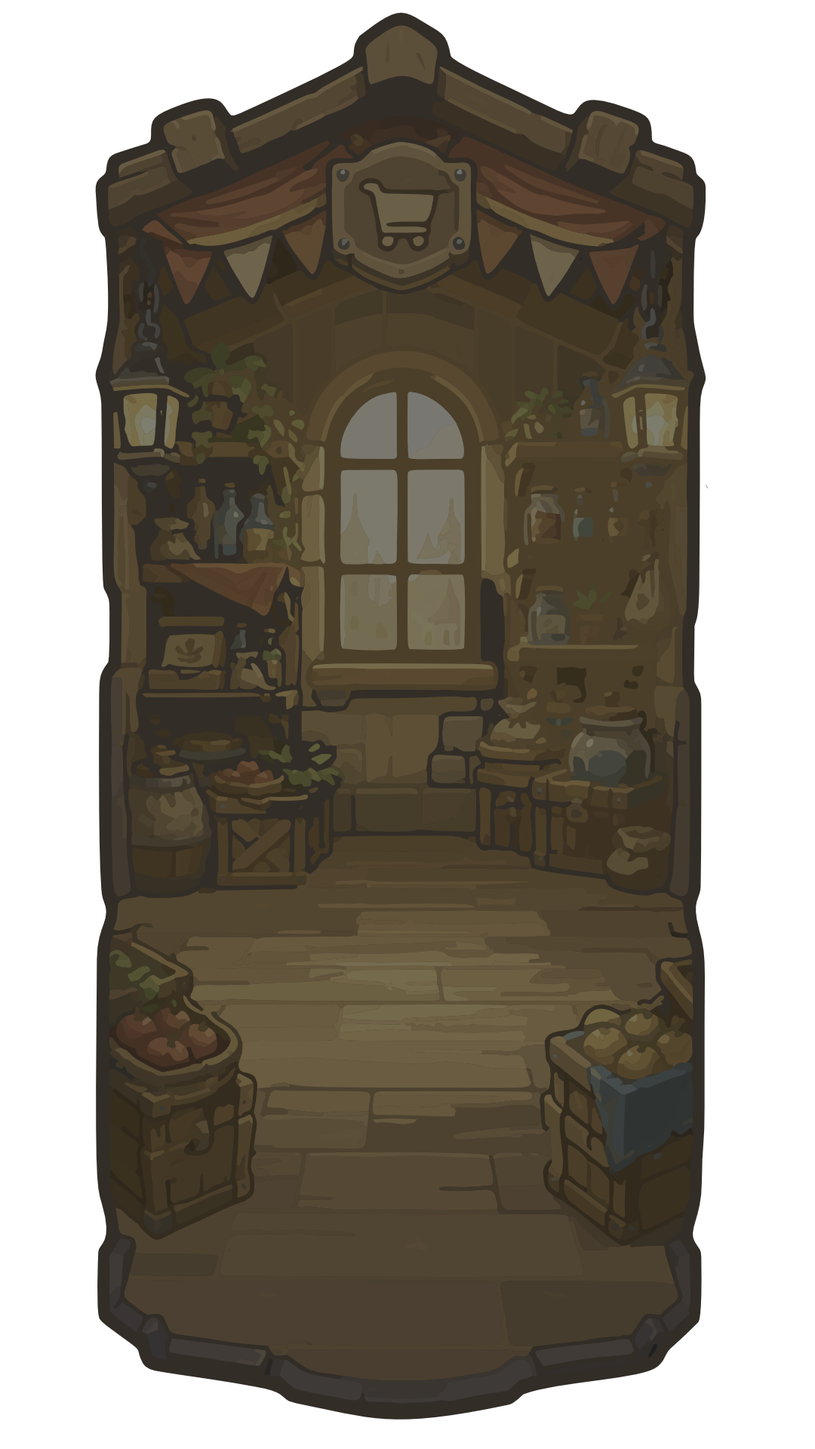
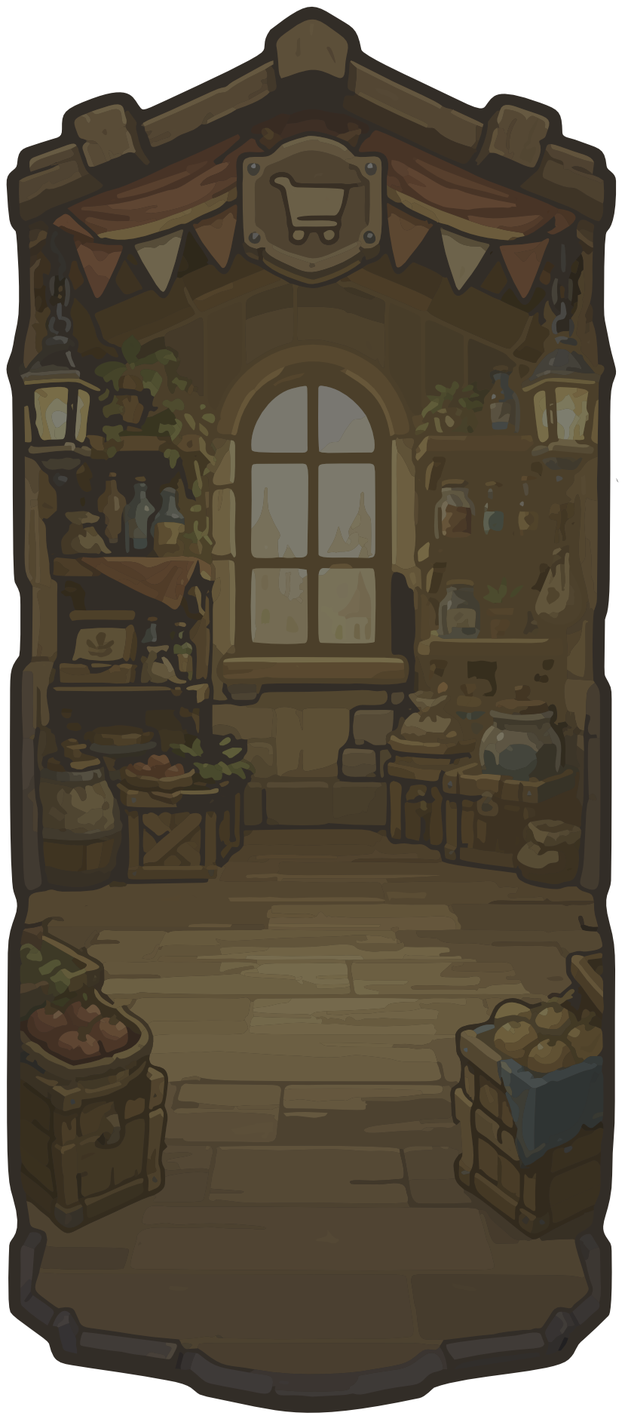
Rynek: napraw czarne pasy w tle sceny + ręczny edytor sceny na urządzeniu (#149)
User ze zrzutem po §32: "zobacz nadal [źle], musisz poprawić" — TLOSKLEPIKARZ.png (tło całej
sceny Rynku) miało ~12% przezroczystego marginesu po każdej stronie, nigdy nie przycięte jak
RYNEK_TOP/RYNEK_BOTTOM; resizeMode="cover" dopasowywał się do wysokości sceny i przycinał
tylko ~15px z brzegu, zostawiając ~75px czystego czarnego marginesu po obu stronach na
realnym ekranie. Zweryfikowane lokalnie (bbox kanału alfa + symulacja Pillow całego łańcucha
renderu przed/po, nie zgadywanie) i naprawione: obrazek przycięty do bbox alfa (+8px), zero
zmian w kodzie.

Dodatkowo: user zaproponował, żeby zamiast kolejnych rund "zrzut ekranu → zgadywanie
współrzędnych → PR", dać mu ręczny edytor na telefonie. Nowa ikona suwaków w headerze Sklepu
otwiera panel z 7 wartościami (skala grafik, przesunięcie X sceny, odstępy tablica↔kotek↔lada,
rozmiar/przesunięcie sklepikarza, pionowy punkt zaczepienia tła), persystowanych w
AsyncStorage, z przyciskiem "Eksportuj" pokazującym JSON do wklejenia z powrotem w czacie.

Osobno wysłany userowi (poza repo) statyczny .svg sklepikarza do samodzielnej edycji wąsów/
czapki w zewnętrznym edytorze — CatArt.tsx to programistyczny komponent, nie gotowy plik, więc
to wierny zrzut spoczynkowej pozy w tych samych współrzędnych.

tsc/jest zielone (67 suit/837 testów).

Claude-Session: https://claude.ai/code/session_01JBj2QCJj1UFiScnF39vpT2

diff --git a/app/pet-shop.tsx b/app/pet-shop.tsx
@@ -1,9 +1,10 @@
-import { useMemo, useState } from 'react';
+import { useEffect, useMemo, useState } from 'react';
 import { View, Text, StyleSheet, ScrollView, TouchableOpacity, Image, Modal, Dimensions } from 'react-native';
+import AsyncStorage from '@react-native-async-storage/async-storage';
 import { LinearGradient } from 'expo-linear-gradient';
 import { SafeAreaView } from 'react-native-safe-area-context';
 import { router } from 'expo-router';
-import { ChevronLeft, Coins, Check, Snowflake, Gift, X } from 'lucide-react-native';
+import { ChevronLeft, Coins, Check, Snowflake, Gift, X, SlidersHorizontal } from 'lucide-react-native';
 
 import PressableScale from '@/components/ui/PressableScale';
 import ConfirmDialog from '@/components/ui/ConfirmDialog';
@@ -39,6 +40,37 @@ const pctStyle = (r: PctRect) => ({
 // aspectRatio, żeby wyeliminować możliwość takiego rozjazdu).
 const SCREEN_W = Dimensions.get('window').width;
 const ART_CONTENT_W = SCREEN_W - spacing[4] * 2;   // dokładnie tyle, ile zostaje po paddingHorizontal `s.scroll`
+
+// Ręczny "edytor sceny" (2026-09-06, user po kolejnym zrzucie "nadal [źle]": zamiast żebym
+// dalej zgadywał współrzędne na ślepo bez dostępu do urządzenia, user dostaje suwaki do
+// samodzielnego dostrojenia skali/przesunięcia/odstępów NA ŻYWO na telefonie, a potem
+// przycisk "Eksportuj" wypluwa dokładne liczby do wklejenia w czacie — ja je już tylko
+// wpisuję na sztywno jako nowe wartości domyślne, zero kolejnych rund zgadywania). Wartości
+// persystują w AsyncStorage (żeby dostrajanie przetrwało między sesjami), niezależne od
+// samego wyglądu dla zwykłego użytku — edytor jest schowany za ikoną w headerze, nie
+// przeszkadza w normalnym korzystaniu ze sklepu.
+interface ArtAdjust {
+  scale: number;       // mnożnik szerokości tablicy/lady (ART_CONTENT_W * scale)
+  offsetX: number;     // przesunięcie X całej sceny (tło+tablica+kotek+lada razem)
+  gapTop: number;      // odstęp tablica → kotek
+  gapBottom: number;   // odstęp kotek → lada
+  catSize: number;     // rozmiar sklepikarza
+  catOffsetX: number;  // przesunięcie X samego kotka
+  bgFocusY: number;    // 0=pokaż górę tła (dach), 1=pokaż dół (podłogę), 0.5=środek
+}
+const DEFAULT_ADJUST: ArtAdjust = {
+  scale: 1, offsetX: 0, gapTop: spacing[3], gapBottom: spacing[3], catSize: 140, catOffsetX: 0, bgFocusY: 0.5,
+};
+const ADJUST_KEY = 'rynek_art_adjust_v1';
+const ADJUST_FIELDS: { key: keyof ArtAdjust; label: string; step: number; min: number; max: number; fmt: (v: number) => string }[] = [
+  { key: 'scale', label: 'Skala grafik (tablica/lada)', step: 0.02, min: 0.6, max: 1.3, fmt: v => `${Math.round(v * 100)}%` },
+  { key: 'offsetX', label: 'Przesunięcie X całej sceny', step: 2, min: -80, max: 80, fmt: v => `${v}px` },
+  { key: 'gapTop', label: 'Odstęp: tablica → kotek', step: 2, min: 0, max: 60, fmt: v => `${v}px` },
+  { key: 'gapBottom', label: 'Odstęp: kotek → lada', step: 2, min: 0, max: 60, fmt: v => `${v}px` },
+  { key: 'catSize', label: 'Rozmiar sklepikarza', step: 4, min: 60, max: 260, fmt: v => `${v}px` },
+  { key: 'catOffsetX', label: 'Przesunięcie X sklepikarza', step: 4, min: -140, max: 140, fmt: v => `${v}px` },
+  { key: 'bgFocusY', label: 'Tło: która część widoczna (dach ↔ podłoga)', step: 0.02, min: 0, max: 1, fmt: v => `${Math.round(v * 100)}%` },
+];
 
 const FREEZE_COST = 50;   // monet za jedno zamrożenie serii
 
@@ -102,6 +134,48 @@ export default function PetShop() {
   // kupuje. Tylko Sklep dnia — jedyna zakładka sprzedająca KONKRETNE itemy ekwipunku o znanym
   // staty/rarity; skrzynki (losowe) tego nie mają.
   const [gearPreview, setGearPreview] = useState<DailyShopSlot | null>(null);
+
+  // Edytor sceny Rynku — patrz komentarz przy `ArtAdjust` u góry pliku. Ładowany raz z
+  // AsyncStorage; `adjustLoaded` chroni przed nadpisaniem zapisanych wartości domyślnymi
+  // zanim odczyt zdąży wrócić (ten sam wzorzec co reszta store'ów w apce).
+  const [adjust, setAdjust] = useState<ArtAdjust>(DEFAULT_ADJUST);
+  const [adjustLoaded, setAdjustLoaded] = useState(false);
+  const [editScene, setEditScene] = useState(false);
+  const [showExport, setShowExport] = useState(false);
+  useEffect(() => {
+    AsyncStorage.getItem(ADJUST_KEY).then(raw => {
+      if (raw) { try { setAdjust({ ...DEFAULT_ADJUST, ...JSON.parse(raw) }); } catch {} }
+      setAdjustLoaded(true);
+    }).catch(() => setAdjustLoaded(true));
+  }, []);
+  useEffect(() => {
+    if (!adjustLoaded) return;
+    AsyncStorage.setItem(ADJUST_KEY, JSON.stringify(adjust)).catch(() => {});
+  }, [adjust, adjustLoaded]);
+  const stepAdjust = (key: keyof ArtAdjust, dir: 1 | -1) => {
+    haptic.tap();
+    const f = ADJUST_FIELDS.find(f => f.key === key)!;
+    setAdjust(a => {
+      const raw = Math.min(f.max, Math.max(f.min, a[key] + dir * f.step));
+      return { ...a, [key]: Math.round(raw * 100) / 100 };
+    });
+  };
+  const resetAdjust = () => { haptic.tap(); setAdjust(DEFAULT_ADJUST); setShowExport(false); };
+
+  // Rozmiary sceny wyliczone z aktualnych `adjust` (zamiast sztywnego ART_CONTENT_W) — patrz
+  // komentarz przy `RYNEK_BG` w rynekArt.ts. Tło pozycjonowane RĘCZNIE (własna matematyka
+  // "cover" z pionowym punktem zaczepienia `bgFocusY`), bo zwykły `resizeMode="cover"` zawsze
+  // centruje — nie da się nim wybrać "pokaż więcej dachu" / "pokaż więcej podłogi".
+  const bgSrc = useMemo(() => Image.resolveAssetSource(RYNEK_BG), []);
+  const artW = ART_CONTENT_W * adjust.scale;
+  const sceneTopH = artW / RYNEK_TOP_ASPECT;
+  const sceneBotH = artW / RYNEK_BOTTOM_ASPECT;
+  const sceneH = sceneTopH + adjust.gapTop + adjust.catSize + adjust.gapBottom + sceneBotH;
+  const bgScale = Math.max(ART_CONTENT_W / bgSrc.width, sceneH / bgSrc.height);
+  const bgRenderW = bgSrc.width * bgScale;
+  const bgRenderH = bgSrc.height * bgScale;
+  const bgLeft = -(bgRenderW - ART_CONTENT_W) / 2;
+  const bgTop = -(bgRenderH - sceneH) * adjust.bgFocusY;
 
   const [pendingBuy, setPendingBuy] = useState<{ name: string; cost: number; onYes: () => void; verb: string; extra?: string } | null>(null);
   const confirmBuy = (name: string, cost: number, onYes: () => void, verb = 'Kup', extra?: string) => {
@@ -189,6 +263,10 @@ export default function PetShop() {
         <TouchableOpacity onPress={() => router.back()} hitSlop={10}><ChevronLeft size={24} color={c.text.primary} /></TouchableOpacity>
         <Text style={s.title}>Sklep</Text>
         <View style={s.coinPill}><Coins size={13} color="#FBBF24" /><Text style={s.coinTxt}>{coins}</Text></View>
+        {/* Edytor sceny (2026-09-06) — ukryty za ikoną, nie przeszkadza w normalnym sklepie. */}
+        <TouchableOpacity onPress={() => { haptic.tap(); setEditScene(true); }} hitSlop={10} style={{ marginLeft: spacing[2] }}>
+          <SlidersHorizontal size={18} color={c.text.muted} />
+        </TouchableOpacity>
       </View>
 
       <ScrollView contentContainerStyle={s.scroll} showsVerticalScrollIndicator={false}>
@@ -228,8 +306,8 @@ export default function PetShop() {
             od pozycji scrolla. Freeze-card (nad scenerią) i `hint` (pod nią) świadomie
             ZOSTAJĄ POZA tym wrapperem — nigdy nie miały wymogu piksel-w-piksel wyrównania
             z konkretnym miejscem na obrazku, to zwykłe karty UI, nie część "obrazu". ── */}
-        <View style={s.scene}>
-          <Image source={RYNEK_BG} style={StyleSheet.absoluteFillObject} resizeMode="cover" />
+        <View style={[s.scene, { height: sceneH, transform: [{ translateX: adjust.offsetX }] }]}>
+          <Image source={RYNEK_BG} style={{ position: 'absolute', width: bgRenderW, height: bgRenderH, left: bgLeft, top: bgTop }} resizeMode="stretch" />
 
         {/* Skrzynka dnia (darmowa) + 3 skrzynki (gacha) na "tablicy" LADAGORA, 4 okna. Etykieta
             "Skrzynki" + instruktażowy podpis USUNIĘTE (2026-09-06, user: "wypierdol te
@@ -238,7 +316,7 @@ export default function PetShop() {
             (`odds` w `onBuyBox`), więc informacja nie zniknęła, tylko przestała siedzieć na
             stałe na ekranie. */}
         <View style={{ gap: spacing[2] }}>
-          <View style={[s.artPiece, { width: ART_CONTENT_W, height: ART_CONTENT_W / RYNEK_TOP_ASPECT, alignSelf: 'center' }]}>
+          <View style={[s.artPiece, { width: artW, height: sceneTopH, alignSelf: 'center' }]}>
             <Image source={RYNEK_TOP} style={StyleSheet.absoluteFillObject} resizeMode="contain" />
             <PressableScale onPress={onDailyBox} style={[s.artSlot, pctStyle(RYNEK_TOP_SLOTS[0])]}>
               <View style={s.artSlotBg} />
@@ -266,8 +344,10 @@ export default function PetShop() {
             (`TLOSKLEPIKARZ` przebija przez tę lukę) — user: "co to jest za sklepik, gdzie
             sklepikarz". Bez `onPress` — `shopkeeper` i tak wygasza tap/cuddle-reakcje
             wewnątrz komponentu, więc obsługa dotyku byłaby martwym kodem. */}
-        <View style={{ alignItems: 'center' }}>
-          <CatArt size={140} palette={SHOPKEEPER_PALETTE} shopkeeper />
+        <View style={{ alignItems: 'center', marginTop: adjust.gapTop, marginBottom: adjust.gapBottom }}>
+          <View style={{ transform: [{ translateX: adjust.catOffsetX }] }}>
+            <CatArt size={adjust.catSize} palette={SHOPKEEPER_PALETTE} shopkeeper />
+          </View>
         </View>
 
         {/* ── Sklep dnia — 4 konkretne itemy ekwipunku na dziś, teraz jako górny rząd okien
@@ -278,7 +358,7 @@ export default function PetShop() {
             ZOSTAJE (to żywa, funkcjonalna informacja, nie instrukcja), ale jako mała
             pigułka nad ladą zamiast pełnego zdania. ── */}
         <View style={{ gap: spacing[2] }}>
-          <View style={[s.artPiece, { width: ART_CONTENT_W, height: ART_CONTENT_W / RYNEK_BOTTOM_ASPECT, alignSelf: 'center' }]}>
+          <View style={[s.artPiece, { width: artW, height: sceneBotH, alignSelf: 'center' }]}>
             <Image source={RYNEK_BOTTOM} style={StyleSheet.absoluteFillObject} resizeMode="contain" />
             <View style={s.refreshRow} pointerEvents="none">
               <View style={s.refreshPill}><Text style={s.refreshPillTxt}>Nowy zestaw za {fmtShopRefresh()}</Text></View>
@@ -352,6 +432,43 @@ export default function PetShop() {
         onBuy={(item, rarity, cost, value) => { setGearPreview(null); onBuyDaily(item.id, rarity, cost, value, item.name); }}
         onClose={() => setGearPreview(null)}
       />
+      <Modal visible={editScene} transparent animationType="slide" onRequestClose={() => setEditScene(false)}>
+        <View style={s.previewOverlay}>
+          <View style={[s.previewSheet, { maxHeight: '88%' }]}>
+            <View style={s.sheetHead}>
+              <Text style={s.title2}>Edytor sceny Rynku</Text>
+              <TouchableOpacity onPress={() => setEditScene(false)} hitSlop={10}><X size={20} color={c.text.primary} /></TouchableOpacity>
+            </View>
+            <Text style={s.adjustIntro}>Dostrój suwakami na żywo, potem "Eksportuj" i wyślij mi te liczby w czacie — wpiszę je na sztywno.</Text>
+            <ScrollView style={{ maxHeight: 380 }} showsVerticalScrollIndicator={false}>
+              {ADJUST_FIELDS.map(f => (
+                <View key={f.key} style={s.adjustRow}>
+                  <Text style={s.adjustLabel}>{f.label}</Text>
+                  <View style={s.adjustCtrl}>
+                    <TouchableOpacity onPress={() => stepAdjust(f.key, -1)} style={s.adjustBtn} hitSlop={6}><Text style={s.adjustBtnTxt}>−</Text></TouchableOpacity>
+                    <Text style={s.adjustVal}>{f.fmt(adjust[f.key])}</Text>
+                    <TouchableOpacity onPress={() => stepAdjust(f.key, 1)} style={s.adjustBtn} hitSlop={6}><Text style={s.adjustBtnTxt}>+</Text></TouchableOpacity>
+                  </View>
+                </View>
+              ))}
+            </ScrollView>
+            <View style={{ flexDirection: 'row', gap: spacing[2], marginTop: spacing[2] }}>
+              <TouchableOpacity onPress={resetAdjust} style={[s.previewBuyBtn, { flex: 1, backgroundColor: c.bg.secondary }]}>
+                <Text style={[s.previewBuyTxt, { color: c.text.primary }]}>Reset</Text>
+              </TouchableOpacity>
+              <TouchableOpacity onPress={() => { haptic.tap(); setShowExport(v => !v); }} style={[s.previewBuyBtn, { flex: 1 }]}>
+                <Text style={s.previewBuyTxt}>{showExport ? 'Ukryj dane' : 'Eksportuj'}</Text>
+              </TouchableOpacity>
+            </View>
+            {showExport && (
+              <View style={s.exportBox}>
+                <Text style={s.exportHint}>Zaznacz cały tekst poniżej (długi tap → zaznacz wszystko) i wklej mi w czacie:</Text>
+                <Text selectable style={s.exportTxt}>{JSON.stringify(adjust, null, 2)}</Text>
+              </View>
+            )}
+          </View>
+        </View>
+      </Modal>
     </SafeAreaView>
   );
 }
@@ -473,7 +590,10 @@ const makeS = themedStyles((c: any) => StyleSheet.create({
   // rodzica, nie wpływa na jego pomiar. `overflow:'hidden'` na wypadek gdyby `cover` na
   // skrajnie wąskim/szerokim ekranie chciał wystawić poza zaokrąglone rogi (scena i tak nie
   // ma tu rogów, ale to tania asekuracja przed przypadkowym poziomym scrollem).
-  scene: { position: 'relative', overflow: 'hidden', gap: spacing[3] },
+  // `gap` USUNIĘTY (2026-09-06) — odstępy tablica↔kotek↔lada są teraz NIEZALEŻNE
+  // (`adjust.gapTop`/`gapBottom` z edytora sceny), więc siedzą jako `marginTop`/`marginBottom`
+  // wprost na wrapperze kotka, nie jako jeden wspólny `gap` na tym kontenerze.
+  scene: { position: 'relative', overflow: 'hidden' },
 
   // Kafelki na "tablicy"/ladzie Rynku — `s.artPiece` to kontener na PIKSELOWO (nie
   // procentowo) wyliczonych `width`/`height` (patrz `ART_CONTENT_W` u góry pliku — fix
@@ -527,4 +647,16 @@ const makeS = themedStyles((c: any) => StyleSheet.create({
   previewBoughtTxt: { fontSize: 13, fontWeight: '800' },
   previewBuyBtn: { flexDirection: 'row', alignItems: 'center', justifyContent: 'center', gap: 6, backgroundColor: '#FBBF24', borderRadius: radius.lg, paddingVertical: 14 },
   previewBuyTxt: { fontSize: 14, fontWeight: '900', color: '#0B0E1A' },
+
+  // Edytor sceny Rynku (2026-09-06) — patrz `ArtAdjust` u góry pliku.
+  adjustIntro: { fontSize: 12, color: c.text.muted, marginBottom: spacing[2] },
+  adjustRow: { flexDirection: 'row', alignItems: 'center', justifyContent: 'space-between', paddingVertical: spacing[2], borderBottomWidth: 1, borderBottomColor: c.border.default },
+  adjustLabel: { flex: 1, fontSize: 12.5, color: c.text.primary, fontWeight: '600', marginRight: spacing[2] },
+  adjustCtrl: { flexDirection: 'row', alignItems: 'center', gap: spacing[2] },
+  adjustBtn: { width: 30, height: 30, borderRadius: radius.md, borderWidth: 1, borderColor: c.border.default, alignItems: 'center', justifyContent: 'center' },
+  adjustBtnTxt: { fontSize: 17, fontWeight: '800', color: c.text.primary, lineHeight: 20 },
+  adjustVal: { fontSize: 12.5, fontWeight: '800', color: c.text.primary, minWidth: 48, textAlign: 'center' },
+  exportBox: { marginTop: spacing[3], padding: spacing[3], borderRadius: radius.md, backgroundColor: c.bg.secondary, borderWidth: 1, borderColor: c.border.default },
+  exportHint: { fontSize: 11, color: c.text.muted, marginBottom: spacing[1] },
+  exportTxt: { fontSize: 11.5, fontFamily: 'monospace', color: c.text.primary },
 }));

diff --git a/src/utils/rynekArt.ts b/src/utils/rynekArt.ts
@@ -11,8 +11,19 @@
 // Oryginalne kanwy usera miały 1080x1920 z dużym marginesem przezroczystości dookoła
 // właściwej grafiki (ChatGPT wygenerował portretowy obrazek, ale treść zajmowała tylko
 // część wysokości) — `RYNEK_TOP`/`RYNEK_BOTTOM` są PRZYCIĘTE (Pillow, bbox nieprzezroczystych
-// pikseli + 24px marginesu) żeby nie marnować wysokości ekranu na pusty obszar. `RYNEK_BG`
-// zostaje w oryginalnym rozmiarze (pełnoekranowe tło, resizeMode="cover" i tak przycina brzegi).
+// pikseli + 24px marginesu) żeby nie marnować wysokości ekranu na pusty obszar.
+//
+// `RYNEK_BG` (2026-09-06, fix po zgłoszeniu usera "nadal [źle], musisz poprawić" ze zrzutem
+// pokazującym grube czarne pasy po bokach całej sceny) — DAWNIEJ zostawiony w oryginalnym
+// 1080x1920, założenie było że `resizeMode="cover"` "i tak przytnie brzegi". Fałszywe
+// założenie: `TLOSKLEPIKARZ.png` miał ~12% przezroczystego marginesu po KAŻDEJ stronie (bbox
+// alfa: 126-939 z 1080 szer.), a `cover` dopasowuje się do WYSOKOŚCI całej sceny (tablica+
+// kotek+lada), która w tym pionowym obrazku wychodzi węższa niż potrzeba do pokrycia —
+// `cover` przycinał tylko ~15px z każdej strony, zostawiając ~75px czystego marginesu
+// przezroczystości (czyli czarnego tła apki) po OBU stronach na realnym ekranie. Naprawa:
+// `TLOSKLEPIKARZ.png` przycięty do bbox alfa (+8px marginesu) tym samym skryptem co
+// TOP/BOTTOM — teraz `cover` przycina rzeczywistą treść (trochę dachu u góry / podłogi u
+// dołu, bez znaczenia wizualnego), a scena wypełnia całą szerokość bez czarnych pasów.
 //
 // Współrzędne okien (procent szerokości/wysokości WŁASNEGO kontenera obrazka, nie ekranu)
 // zmierzone RAZ skryptem Python na kanale alfa (bbox przezroczystych "dziur" wewnątrz

diff --git a/ARCHITECTURE.md b/ARCHITECTURE.md
@@ -3959,6 +3959,77 @@ razu). Finalnie **369 wpisów** (138 nauka / 109 rozwój / 122 świat).
 urządzeniu**: jak w §30-31 — nowe fakty powinny naturalnie wchodzić do rotacji "Ciekawostki
 dnia" przez kolejne dni.
 
+## 35. Rynek: czarne pasy po bokach sceny — TLOSKLEPIKARZ.png przycięty do bbox alfa — 2026-09-06
+
+User przysłał zrzut ekranu Sklepu z komentarzem "zobacz nadal [źle], musisz poprawić" — po
+naprawie z §32 (grafiki mieściły się już w ekranie, bez wychodzenia poza krawędź), ale scena
+wyglądała na "połamaną": grube czarne pasy ciągnące się po OBU stronach całej sceny (tablicy,
+kotka-sklepikarza, lady), sprawiające wrażenie że tło w ogóle się nie wczytało.
+
+**Realna przyczyna** (zweryfikowana lokalnie przez zmierzenie bbox kanału alfa i symulację
+renderu Pillow — nie zgadywanie): `TLOSKLEPIKARZ.png` (tło `RYNEK_BG`) zostało w §29 tylko
+odchudzone z 16-bit na 8-bit, ale NIGDY nie przycięte z transparentnego marginesu jak
+`RYNEK_TOP`/`RYNEK_BOTTOM` — miało ~12% przezroczystego marginesu po KAŻDEJ stronie (bbox
+alfa: x 126-939 z 1080 szerokości). Założenie z komentarza w `rynekArt.ts` ("`resizeMode=
+cover` i tak przytnie brzegi") było błędne w praktyce: `cover` dopasowuje się do WYSOKOŚCI
+całej sceny (tablica+kotek+lada, ~1279px), a przy takiej wysokości i pionowym obrazku
+1080×1920 `cover` przycinał tylko ~15px z każdej strony — zostawiając ~75px CZYSTEGO
+marginesu przezroczystości (czyli czarnego tła apki spod spodu) po OBU stronach na realnym
+ekranie. Fałszywy alarm pierwszego wrażenia: to NIE regresja overflow z §32 (który naprawiał
+co innego — obrazek wychodzący POZA ekran, nie za wąski margines wewnątrz).
+
+**Naprawa**: `TLOSKLEPIKARZ.png` przycięty do bbox kanału alfa (+8px marginesu, ten sam
+skrypt/wzorzec co `RYNEK_TOP`/`RYNEK_BOTTOM` w ich własnym przycinaniu) — 1080×1920 → 829×1881.
+Zero zmian w kodzie `pet-shop.tsx` — `resizeMode="cover"` teraz przycina rzeczywistą treść
+(odrobinę dachu u góry / podłogi u dołu, bez znaczenia wizualnego) zamiast pustego marginesu,
+więc scena wypełnia całą szerokość ekranu bez czarnych pasów. Zweryfikowane symulacją Pillow
+całego łańcucha renderowania (dokładna matematyka z `pet-shop.tsx`: `ART_CONTENT_W`, wysokości
+per-aspect, `cover`-crop) — PRZED i PO przycięciu, różnica widoczna i jednoznaczna.
+
+`tsc`/`jest` zielone (67 suit/837 testów, czysto binarna zmiana pliku). **Priorytet testu na
+urządzeniu (jedyny pewny sposób weryfikacji na realnym ekranie)**: ekran Sklepu — scena
+(tablica/luka ze sklepikarzem/lada) powinna wypełniać całą szerokość ekranu bez czarnych
+pasów po bokach; sklepikarz (większy, za ladą, poprawione wąsy/czapka) dalej czeka na osobne
+zlecenie — NIE ruszony w tym PR-cie.
+
+## 36. Rynek: ręczny "edytor sceny" na urządzeniu — koniec zgadywania współrzędnych na ślepo — 2026-09-06
+
+Po dwóch rundach naprawiania sceny Rynku na ślepo z samych zrzutów ekranu (§32, §35) user
+zaproponował inne podejście: "dasz mi opcje żebym zmienił ręcznie położenie/skalę itp, ja to
+dostosuję, a potem [...] wrzucę dane, jakiś przycisk eksportuj [...] i tak zakodujesz, nie
+będziesz zgadywał". Sensowne — testowanie idzie w jedną stronę (user na telefonie, ja bez
+dostępu do urządzenia), więc lepiej dać mu narzędzie do dostrojenia NA ŻYWO niż kolejne rundy
+zrzut→zgadywanie→PR→zrzut.
+
+**Nowość w `app/pet-shop.tsx`**: ikona (`SlidersHorizontal`) w headerze Sklepu otwiera modal
+"Edytor sceny" z 7 suwakami (+/− steppery, nie drag — prościej i pewniej niż gesty na
+telefonie): skala tablicy/lady, przesunięcie X całej sceny, odstęp tablica→kotek, odstęp
+kotek→lada, rozmiar sklepikarza, przesunięcie X sklepikarza, oraz **punkt zaczepienia tła w
+pionie** (który fragment `TLOSKLEPIKARZ.png` widać — dach czy podłoga; własna matematyka
+"cover" z ręcznym `focusY`, bo zwykły `resizeMode="cover"` zawsze centruje i nie da się nim
+tego wybrać). Wartości (`ArtAdjust`) persystują w AsyncStorage (`rynek_art_adjust_v1`), więc
+dostrajanie przetrwa między sesjami. Przycisk "Eksportuj" pokazuje aktualne wartości jako
+zaznaczalny JSON — user kopiuje i wkleja mi w czacie, ja wpisuję je na sztywno jako nowe
+wartości domyślne (`DEFAULT_ADJUST`) i mogę usunąć/zostawić sam edytor.
+
+Refaktor przy okazji: `s.scene` stracił wspólny `gap` (niezależne odstępy górny/dolny wymagały
+osobnych `marginTop`/`marginBottom` na wrapperze kotka), a tło `RYNEK_BG` przeszło z prostego
+`resizeMode="cover"` na ręcznie pozycjonowany `<Image>` (jawne `width`/`height`/`left`/`top`
+liczone z `Image.resolveAssetSource` + tym samym wzorem co algorytm "cover", plus `focusY`).
+
+**Osobno**: user poprosił też o plik do samodzielnej edycji wąsów/czapki sklepikarza ("tylko
+mi svg plik... ja go edytuję") — wyjaśnione mu, że `CatArt.tsx` to NIE gotowy plik .svg, tylko
+programistyczny komponent (react-native-svg, animowany stanem), więc nie ma jednego pliku do
+podania wprost. Zamiast tego wyeksportowany STATYCZNY `.svg` (spoczynkowa poza sklepikarza,
+te same współrzędne co `CatArt.tsx` viewBox 0 0 2000) do edycji w dowolnym edytorze
+wektorowym — po zmianach user odsyła plik albo opisuje co zmienił, a ja przenoszę to na
+sztywno do bloku `shopkeeper` w `CatArt.tsx` (linie ~541-561).
+
+`tsc`/`jest` zielone (67 suit/837 testów). **Priorytet testu na urządzeniu**: otwórz ikonę
+suwaków w Sklepie, pokręć wartościami — scena powinna zmieniać się na żywo bez przeładowania
+ekranu; "Eksportuj" pokazuje poprawny JSON do skopiowania; wartości przetrwają zamknięcie i
+ponowne otwarcie ekranu.
+
 ---
 
 *Powiązane notatki (prywatna pamięć asystenta): codebase_map, project_sapp,

diff --git a/NEXT_STEPS.md b/NEXT_STEPS.md
@@ -3,6 +3,43 @@
 Ten plik to zrzut z sesji na PC przed przejściem na zdalną pracę z telefonu (claude.ai/code).
 Aktualizuj/kasuj pozycje w miarę ogarniania, nie zostawiaj martwych wpisów.
 
+## 🆕 Rynek: czarne pasy po bokach sceny naprawione (TLOSKLEPIKARZ.png przycięty) — NIEsprawdzone (2026-09-06)
+
+User ze zrzutem po fixie z §32: "zobacz nadal [źle], musisz poprawić". Realna przyczyna
+(zmierzona lokalnie, nie zgadywana) — `TLOSKLEPIKARZ.png` (tło całej sceny) miało ~12%
+przezroczystego marginesu po KAŻDEJ stronie, nigdy nie przycięte jak `RYNEK_TOP`/
+`RYNEK_BOTTOM`; `resizeMode="cover"` dopasowywał się do WYSOKOŚCI sceny i przycinał tylko
+~15px z brzegu, zostawiając ~75px czystego czarnego marginesu po OBU stronach na realnym
+ekranie — wyglądało jak niewczytane tło. Pełny opis w ARCHITECTURE.md §35. Naprawa: obrazek
+przycięty do bbox alfa (+8px), zero zmian w kodzie. Zweryfikowane symulacją Pillow całego
+łańcucha renderu przed/po (nie samo "powinno działać") — różnica jednoznaczna. `tsc`/`jest`
+zielone.
+
+**Priorytet testu na urządzeniu**: ekran Sklepu — scena powinna wypełniać całą szerokość
+ekranu, bez czarnych pasów po bokach tablicy/luki/lady. Sklepikarz (większy, za ladą,
+poprawione wąsy/czapka) dalej NIE ruszony — czeka na osobne zlecenie usera.
+
+## 🆕 Rynek: edytor sceny na urządzeniu (suwaki + eksport) + statyczny .svg sklepikarza — NIEsprawdzone (2026-09-06)
+
+User: "dasz mi opcje żebym zmienił ręcznie położenie/skalę, ja dostosuję, potem przycisk
+eksportuj — nie będziesz zgadywał; a sklepikarza sam zrobię, tylko daj mi plik svg". Pełny
+opis w ARCHITECTURE.md §36. Dwie rzeczy:
+1. **Edytor sceny** — ikona suwaków w headerze Sklepu (`app/pet-shop.tsx`) otwiera panel z
+   7 wartościami (skala tablicy/lady, przesunięcie X sceny, odstępy tablica↔kotek↔lada,
+   rozmiar/przesunięcie sklepikarza, punkt zaczepienia tła w pionie), persystowanych w
+   AsyncStorage. Przycisk "Eksportuj" pokazuje JSON do skopiowania i przysłania mi w czacie —
+   wpiszę te wartości na sztywno jako nowe domyślne.
+2. **Statyczny `.svg` sklepikarza** wysłany userowi osobno (nie w repo — plik roboczy do
+   edycji zewnętrznej) — CatArt.tsx to programistyczny komponent, nie gotowy plik, więc to
+   wierny STATYCZNY zrzut spoczynkowej pozy do edycji w Inkscape/Figmie/etc. Po zmianach user
+   odsyła plik albo opis zmian, ja przenoszę na sztywno do `shopkeeper` bloku w `CatArt.tsx`.
+
+`tsc`/`jest` zielone (67 suit/837 testów). **Priorytet testu na urządzeniu**: ikona suwaków w
+Sklepie → panel się otwiera → zmiana wartości widoczna na scenie na żywo → "Eksportuj" daje
+poprawny JSON → wartości przetrwają zamknięcie ekranu. Docelowo: user dostraja suwakami aż
+scena wygląda dobrze, wysyła mi wyeksportowany JSON, ja hardkoduję i (opcjonalnie) usuwam
+edytor.
+
 ## 🆕 Ciekawostki: masowy dolew treści, 152 → 237 → 310 → 369 wpisów — NIEsprawdzone (2026-09-06)
 
 User: "żeby tych ciekawostek było mnóstwo", potem "dawaj więcej ciekawostek", potem "ogarnij
